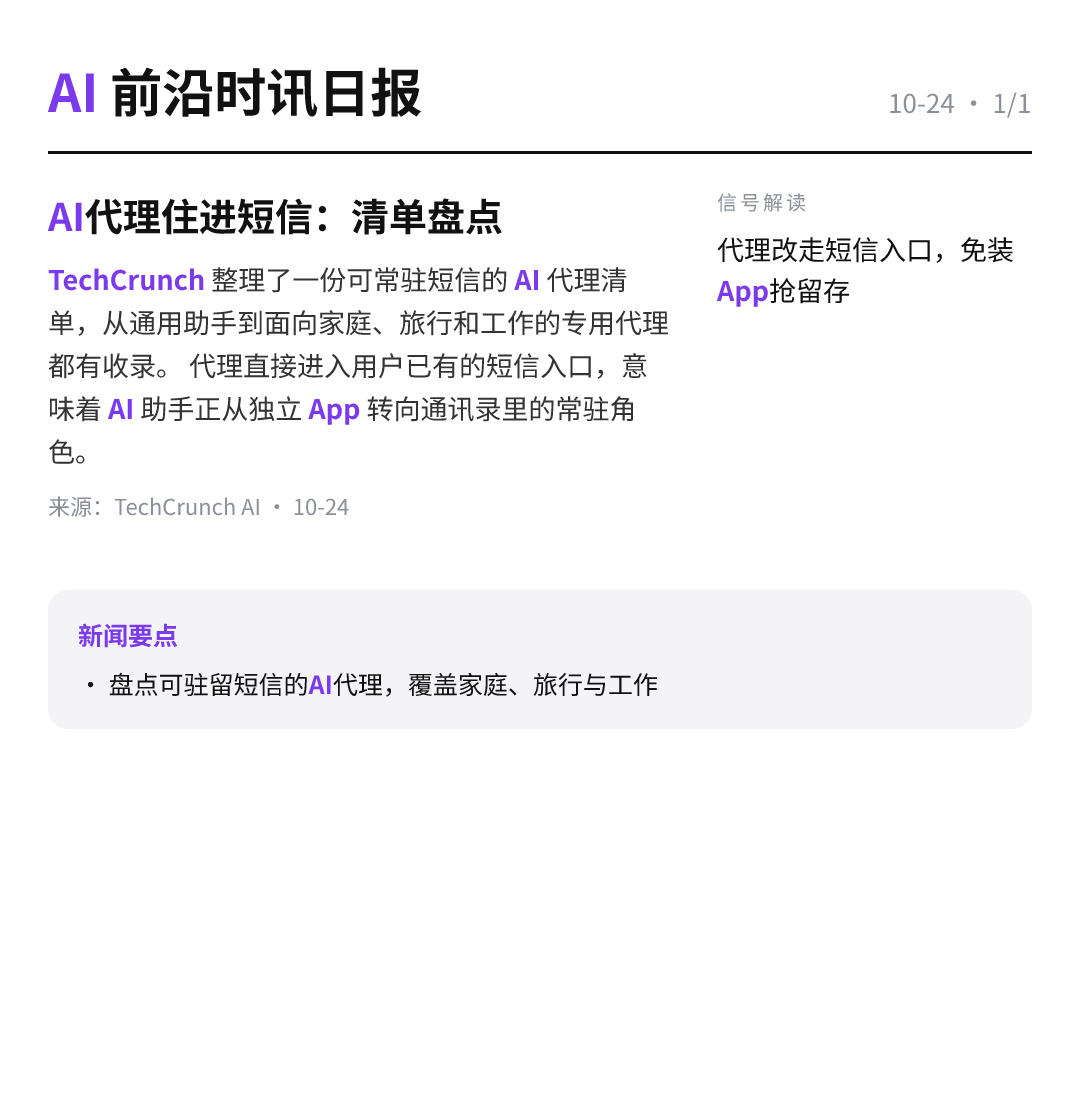
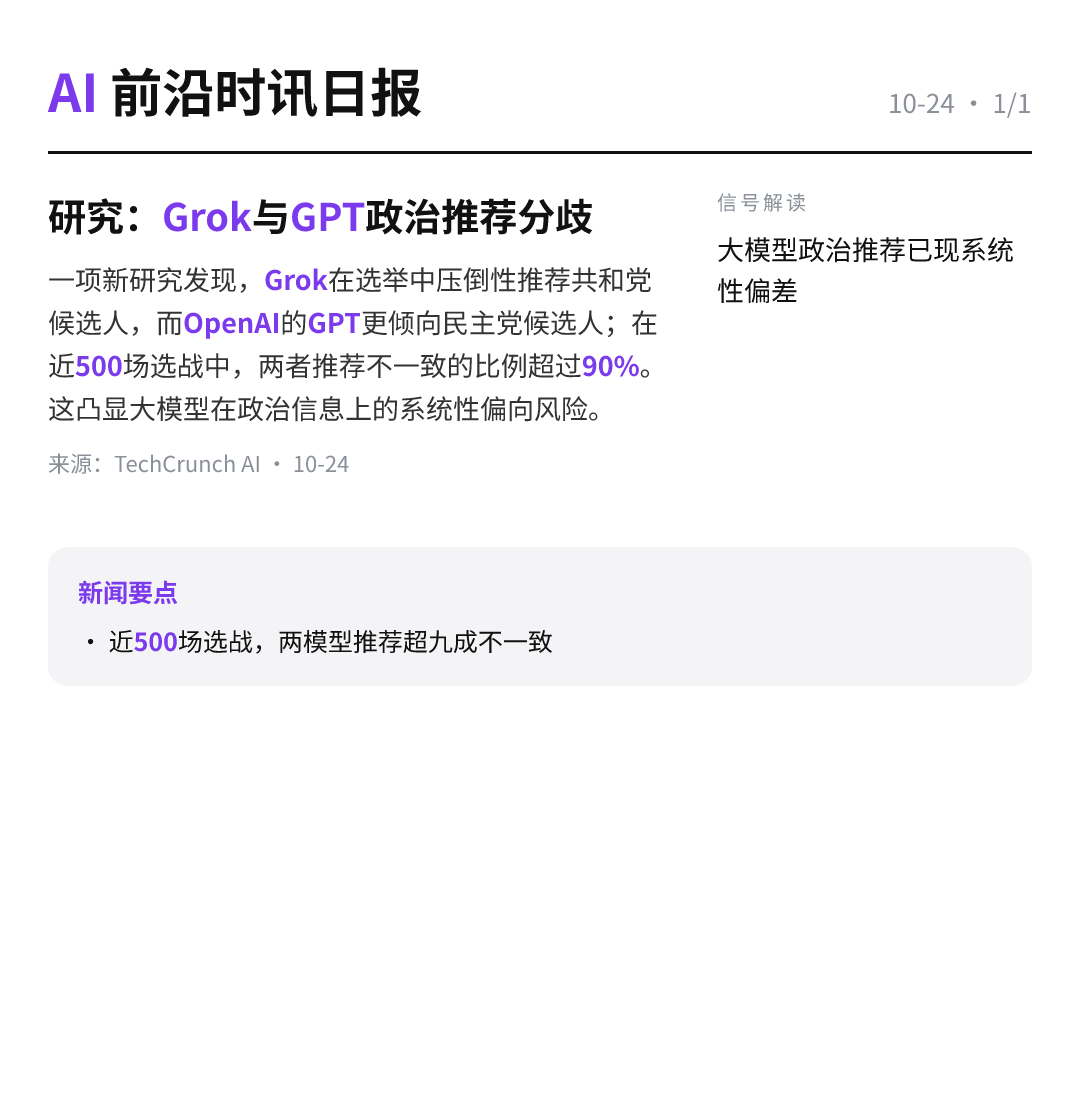
daily: 2026-10-24 23:30

diff --git a/docs/index.html b/docs/index.html
@@ -26,6 +26,11 @@ footer { margin-top: 40px; color: var(--sub); font-size: 13px; }
 <header class="site"><h1>AI 前沿时讯日报</h1><p>每天高频班次的 AI 领域要闻速览：发生了什么，为什么重要。</p></header>
 <h2 style="font-size:20px">最新一期：2026-10-24</h2>
 <div class="card">
+  <h2>研究：Grok与GPT政治推荐分歧</h2>
+  <p>一项新研究发现，Grok在选举中压倒性推荐共和党候选人，而OpenAI的GPT更倾向民主党候选人；在近500场选战中，两者推荐不一致的比例超过90%。 这凸显大模型在政治信息上的系统性偏向风险。</p>
+  <p class="src"><span class="tag">TechCrunch AI</span>23:00<a href="https://techcrunch.com/2026/10/24/forced-to-pick-groks-ai-model-chooses-republicans-openais-picks-democrats/" target="_blank" rel="noopener">原文链接 ↗</a></p>
+</div>
+<div class="card">
   <h2>AI代理住进短信：清单盘点</h2>
   <p>TechCrunch 整理了一份可常驻短信的 AI 代理清单，从通用助手到面向家庭、旅行和工作的专用代理都有收录。 代理直接进入用户已有的短信入口，意味着 AI 助手正从独立 App 转向通讯录里的常驻角色。</p>
   <p class="src"><span class="tag">TechCrunch AI</span>22:00<a href="https://techcrunch.com/2026/10/24/all-the-ai-agents-that-can-live-in-your-text-messages/" target="_blank" rel="noopener">原文链接 ↗</a></p>
@@ -212,7 +217,7 @@ footer { margin-top: 40px; color: var(--sub); font-size: 13px; }
 </div>
 <h2 style="font-size:20px;margin-top:36px">往期</h2>
 <ul class="dates">
-<li><a href="daily/2026-10-24.html">2026-10-24</a> · 37 条</li>
+<li><a href="daily/2026-10-24.html">2026-10-24</a> · 38 条</li>
 </ul>
 <footer>本站由 GitHub Actions 自动生成 · 推送主题：<code>ai-daily-f02c73ab</code>（ntfy.sh，手机/桌面均可订阅）</footer>
 </div></body></html>

diff --git a/docs/daily/2026-10-24.html b/docs/daily/2026-10-24.html
@@ -24,8 +24,13 @@ footer { margin-top: 40px; color: var(--sub); font-size: 13px; }
 </style></head>
 <body><div class="wrap">
 <header class="site"><h1>AI 前沿时讯日报</h1><p>每天高频班次的 AI 领域要闻速览：发生了什么，为什么重要。</p></header>
-<p class="meta">日报日期 2026-10-24（Asia/Shanghai）· 共 37 条 · 生成时间 22:44</p>
+<p class="meta">日报日期 2026-10-24（Asia/Shanghai）· 共 38 条 · 生成时间 23:30</p>
 <img class="poster" src="../poster/2026-10-24-p1.png" alt="当日日报海报" onerror="this.remove()">
+<div class="card">
+  <h2>研究：Grok与GPT政治推荐分歧</h2>
+  <p>一项新研究发现，Grok在选举中压倒性推荐共和党候选人，而OpenAI的GPT更倾向民主党候选人；在近500场选战中，两者推荐不一致的比例超过90%。 这凸显大模型在政治信息上的系统性偏向风险。</p>
+  <p class="src"><span class="tag">TechCrunch AI</span>23:00<a href="https://techcrunch.com/2026/10/24/forced-to-pick-groks-ai-model-chooses-republicans-openais-picks-democrats/" target="_blank" rel="noopener">原文链接 ↗</a></p>
+</div>
 <div class="card">
   <h2>AI代理住进短信：清单盘点</h2>
   <p>TechCrunch 整理了一份可常驻短信的 AI 代理清单，从通用助手到面向家庭、旅行和工作的专用代理都有收录。 代理直接进入用户已有的短信入口，意味着 AI 助手正从独立 App 转向通讯录里的常驻角色。</p>
